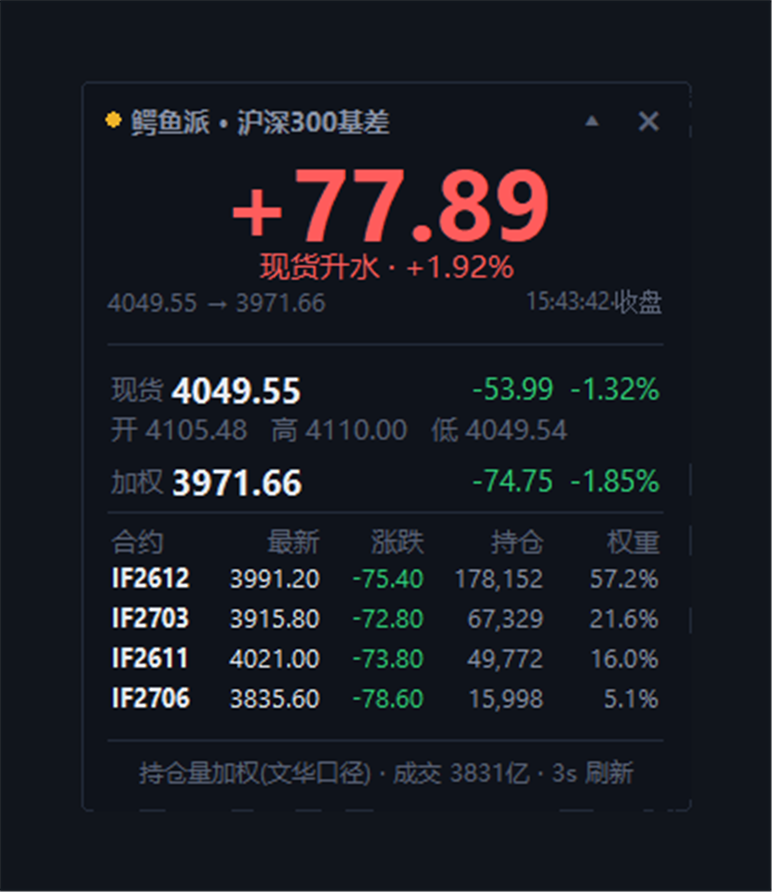
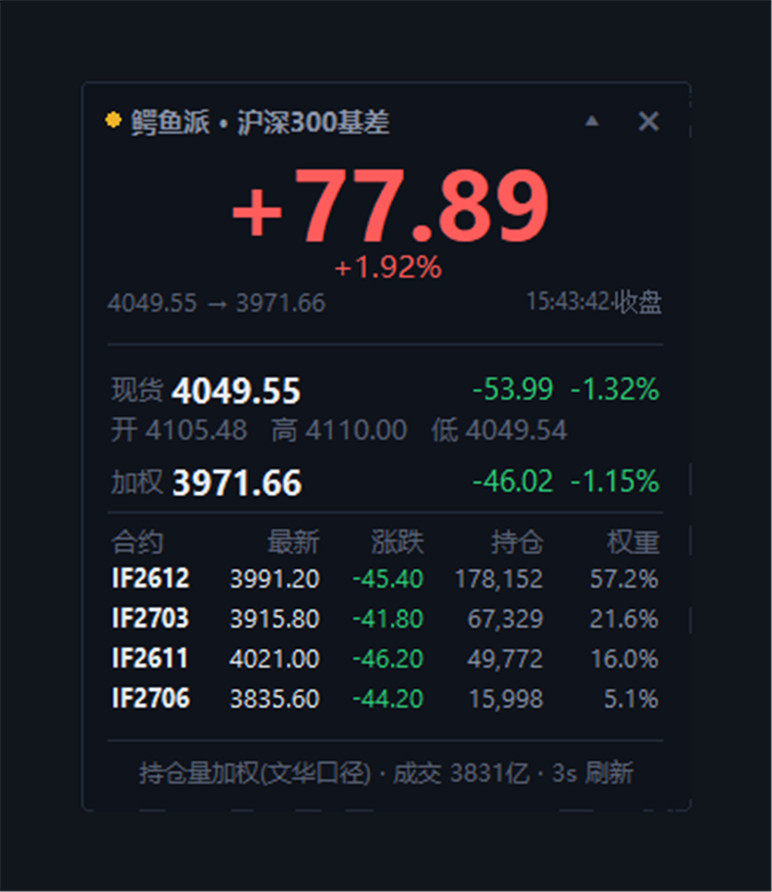
fix: 涨跌改用昨收基准、加权基准用昨日持仓权重，与文华对齐
- 去掉紧凑态「现货升水/期货升水」文案，只留居中百分比
- parse_if 新增 [14]昨收盘、[15]昨日持仓量
- 合约涨跌 = 最新 − 昨收（此前误用昨结算，导致 -75 vs 文华 -45）
- 加权基准 = Σ(昨收×昨持仓)/Σ昨持仓（连续指数口径），实测 -46.02 vs 文华 -46.0
- README 口径表同步，截图重拍

diff --git a/鳄鱼派_沪深300基差.py b/鳄鱼派_沪深300基差.py
@@ -166,7 +166,8 @@ def parse_spot(f):
 def parse_if(code, f):
     """
     CFF_RE_IFxxxx 字段： [0]今开 [1]昨结算 [2]最低 [3]最新 [4]成交量
-                        [6]持仓量 [36]日期 [37]时间 [49]合约名称
+                        [6]持仓量 [14]昨收盘 [36]日期 [37]时间 [49]合约名称
+    涨跌以「昨收盘」为基准 —— 与文华终端显示一致（若昨收缺失才退回昨结算）。
     """
     if not f or len(f) < 38:
         return None
@@ -176,10 +177,17 @@ def parse_if(code, f):
         oi = float(f[6])
         if price <= 0 or (oi <= 0 and volume <= 0):
             return None
+        pre_settle = float(f[1])
+        pre_close = float(f[14]) if len(f) > 14 and f[14] else 0.0
+        if pre_close <= 0:
+            pre_close = pre_settle
+        oi_y = float(f[15]) if len(f) > 15 and f[15] else 0.0
         return {
             "code": code,
             "price": price,
-            "pre_settle": float(f[1]),
+            "pre_settle": pre_settle,
+            "pre_close": pre_close,
+            "oi_y": oi_y,
             "open": float(f[0]),
             "low": float(f[2]),
             "volume": volume,
@@ -218,14 +226,19 @@ def build_snapshot(sess):
         raise RuntimeError("合约持仓为 0")
 
     wp = sum(c["price"] * c["oi"] for c in live) / tot_oi
-    wp_pre = sum(c["pre_settle"] * c["oi"] for c in live) / tot_oi
+    # 加权基准价：文华用「昨日持仓量 × 昨日收盘」加权（换手导致的权重变化不影响当日涨跌）
+    tot_oi_y = sum(c["oi_y"] for c in live)
+    if tot_oi_y > 0:
+        wp_pre = sum(c["pre_close"] * c["oi_y"] for c in live) / tot_oi_y
+    else:
+        wp_pre = sum(c["pre_close"] * c["oi"] for c in live) / tot_oi
 
     rows = []
     for c in live:
         rows.append({
             "code": c["code"],
             "price": c["price"],
-            "chg": c["price"] - c["pre_settle"],
+            "chg": c["price"] - c["pre_close"],
             "oi": c["oi"],
             "vol": c["volume"],
             "w": c["oi"] / tot_oi,
@@ -544,8 +557,7 @@ class BasisWidget:
             if status == "error":
                 col = COL["dim"]
             txt = "%+.2f" % basis
-            sub = "现货升水 · %+.2f%%" % s["basis_pct"] if basis > 0 else \
-                  ("期货升水 · %+.2f%%" % s["basis_pct"] if basis < 0 else "期现平价")
+            sub = "%+.2f%%" % s["basis_pct"]
             sub_col = col
             foot = "%.2f → %.2f" % (s["spot"]["price"], s["wp"])
             tcol = COL["dim"] if status == "stale" else COL["sub"]

diff --git a/README.md b/README.md
@@ -107,12 +107,16 @@ python 鳄鱼派_沪深300基差.py
 
 ```
 基差      = 沪深300 现货指数 − IF 持仓量加权价
-加权价    = Σ(合约最新价 × 合约持仓量) / Σ合约持仓量
+加权价    = Σ(最新价 × 今日持仓量) / Σ今日持仓量
+加权基准  = Σ(昨收盘 × 昨日持仓量) / Σ昨日持仓量   ← 与文华「300股指加权」的涨跌口径对齐
+涨跌      = 最新价 − 昨收盘（合约与加权都用昨收，跟文华终端显示一致）
 覆盖合约  = 当月、下月、当季、下季（自动探测，自动过滤已到期）
 数据源    = 新浪财经免费行情  hq.sinajs.cn
             现货 sh000300，期货 CFF_RE_IF2601 这类代码
 刷新频率  = 默认 3 秒（可在右键菜单改成 1/2/3/5/10/30 秒）
 ```
+
+> 为什么加权基准要用「昨日持仓量」：文华的加权指数是连续序列，涨跌是拿今天的加权价去减**昨天那个指数值**；而昨天的指数值用的是昨天的持仓权重。我们用今天的权重去加权昨天的收盘价会差一分两分钱，改用昨仓后实测和文华对到小数点后一位（例：-46.02 vs 文华 -46.0）。
 
 **关于抖动**：现货指数约 5 秒一个快照，期货是 tick 级，两边时点不完全对齐，所以基差会跳几分钱。文华终端里同样会跳，属正常现象。
 
